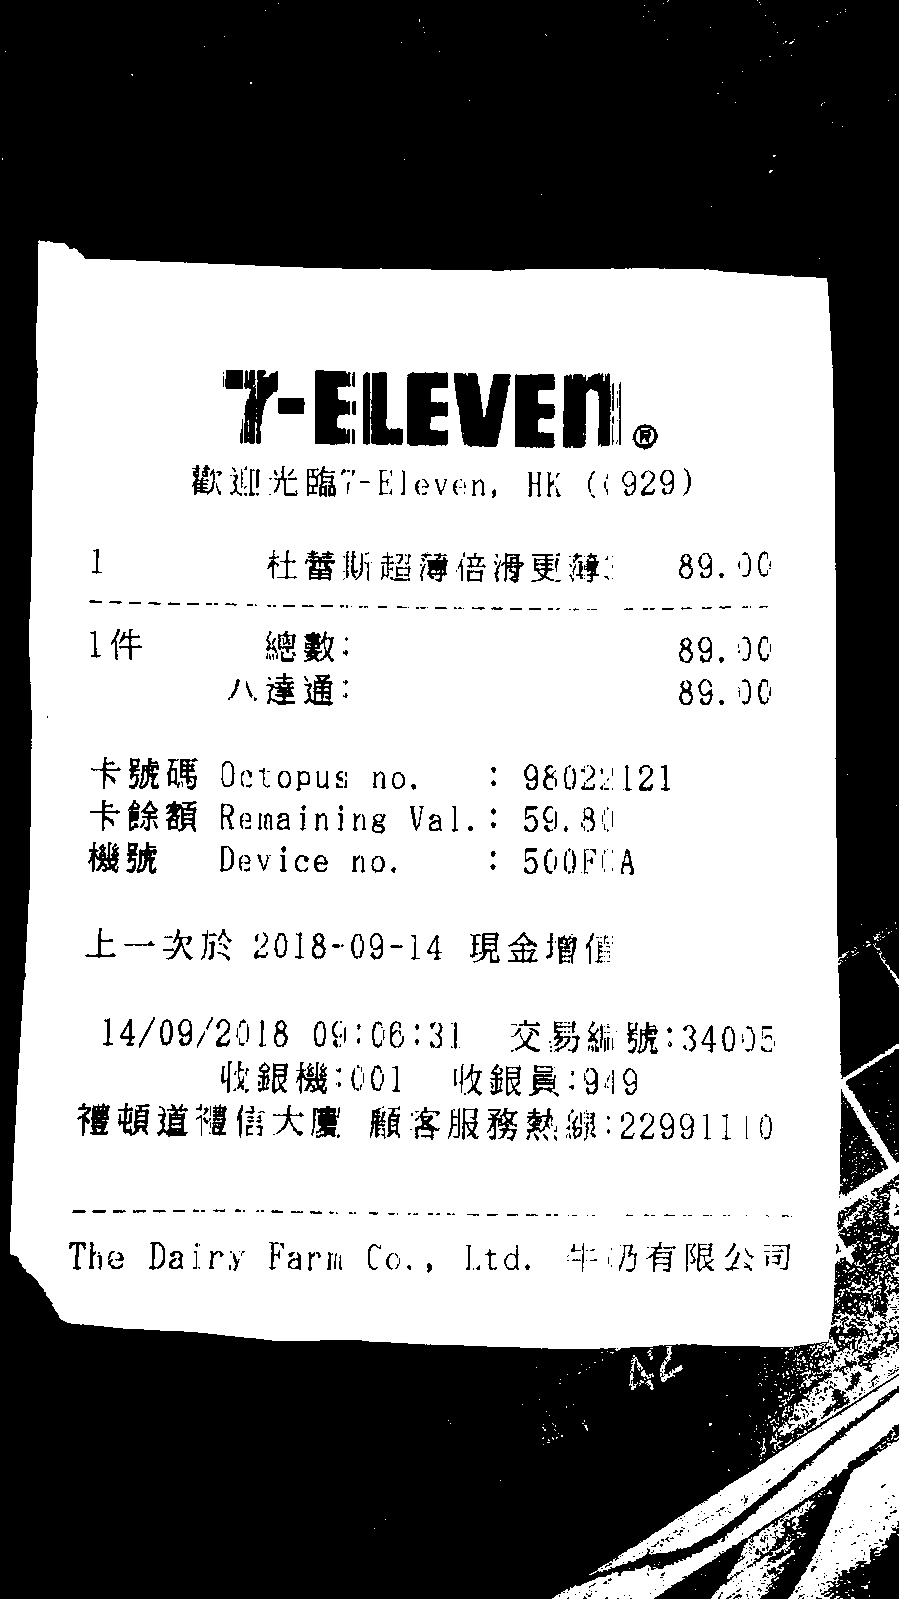
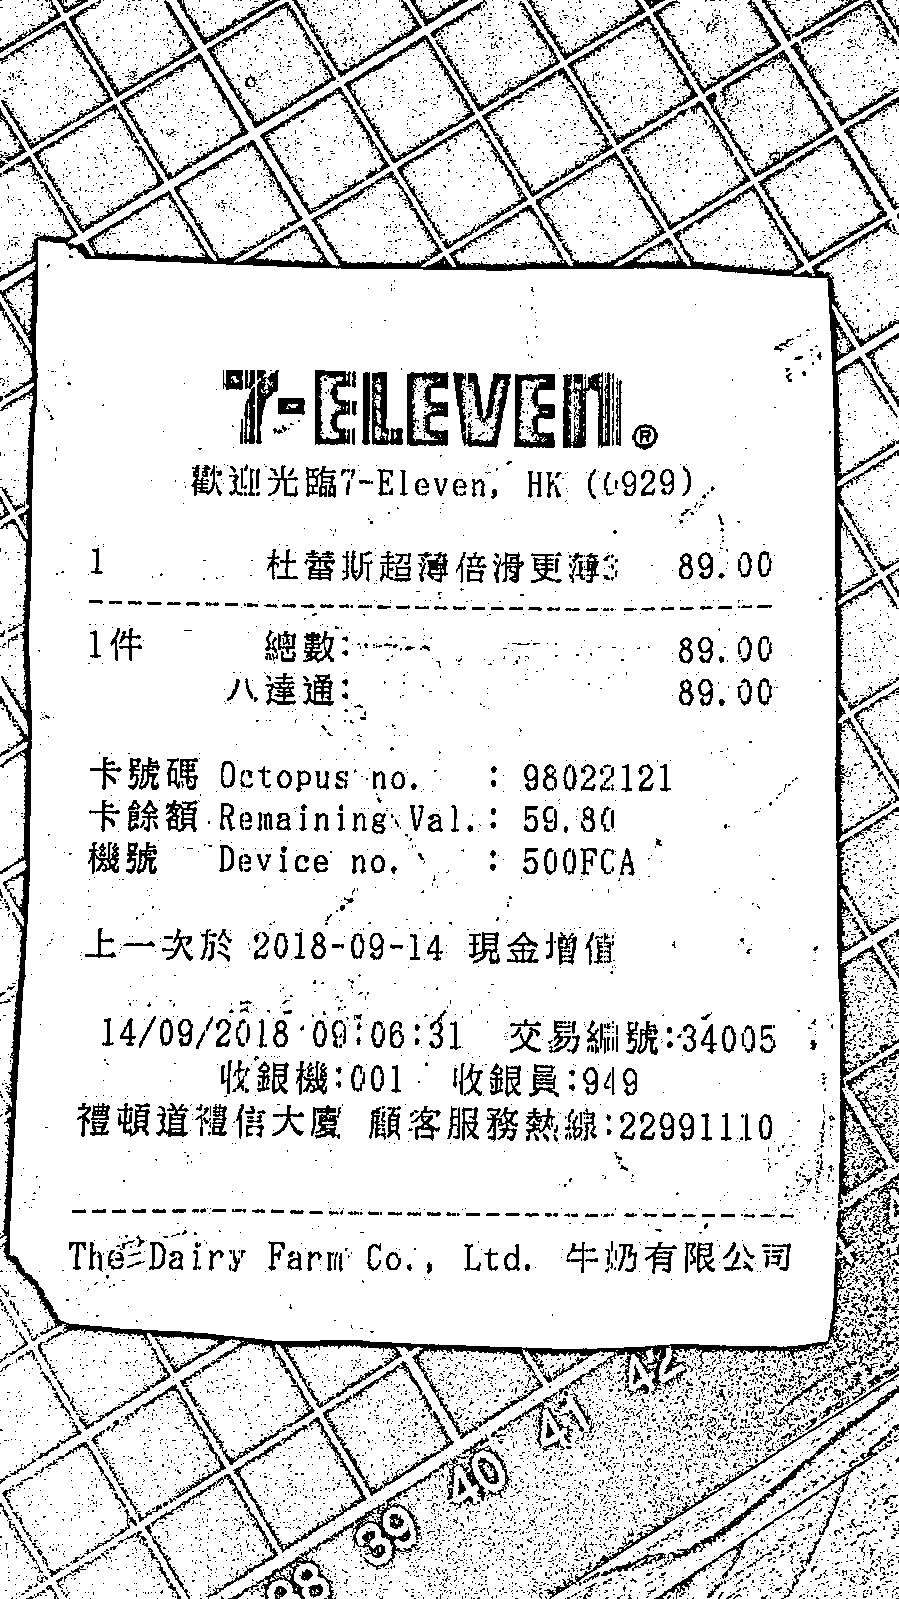
commit-shu-10aug0137

diff --git a/Prepro/grey+rotat.py b/Prepro/grey+rotat.py
@@ -1,40 +1,20 @@
-# pip install --upgrade pip
-# pip install matplotlib
-# pip install numpy
-#pip install pillow
-# pip install opencv-python
-#pip install imutils
-# pip install imutils
-#3.8.5 
-from skimage.filters import threshold_local
 import math
-from scipy import ndimage
-
 import imutils
 import cv2
+import numpy as np
+from scipy import ndimage
+from skimage.filters import threshold_local
 from matplotlib import pyplot as plt
 from PIL import Image
-import numpy as np
 
-#input
-originalImage = cv2.imread('Prepro\Data\img1.jpg')
-grayImage = cv2.cvtColor(originalImage, cv2.COLOR_BGR2GRAY)
-  
-(thresh, blackAndWhiteImage) = cv2.threshold(grayImage, 127, 255, cv2.THRESH_BINARY)
-cv2.imwrite("Prepro\SemiData\gray.jpg", grayImage)
+# Importing img
+originalImage = cv2.imread('Prepro\prototype_0.5\img01.jpg')
 
-#cv2.imshow('Black white image', blackAndWhiteImage)
-#cv2.imshow('Original image',originalImage)
-#cv2.imshow('Gray image', grayImage)
-#inverted_bw = cv2.bitwise_not(blackAndWhiteImage)
-
-cv2.imwrite("Prepro\SemiData\BW.jpg", blackAndWhiteImage)
-
-###############################################
-def orientation_correction(img, save_image = False):
+#########
+#########
+def orientation_correction(img, save_image = False): 
     # GrayScale Conversion for the Canny Algorithm  
     img_gray = cv2.cvtColor(img, cv2.COLOR_BGR2GRAY) 
-    # Canny Algorithm for edge detection was developed by John F. Canny not Kennedy!! :)
     img_edges = cv2.Canny(img_gray, 100, 100, apertureSize=3)
     # Using Houghlines to detect lines
     lines = cv2.HoughLinesP(img_edges, 1, math.pi / 180.0, 100, minLineLength=100, maxLineGap=5)
@@ -51,43 +31,92 @@ def orientation_correction(img, save_image = False):
     # Rotating the image with this median angle
     img_rotated = ndimage.rotate(img, median_angle)
     
-    #if save_image:
-    #    cv2.imwrite('Prepro\SemiData\img09.jpg', img_rotated)
     return img_rotated
-###############################################
+########
+########
 
 
-IMAGE_FILE_LOCATION = "Prepro\SemiData\gray.jpg" # Photo by Amanda Jones on Unsplash
-input_img = cv2.imread(IMAGE_FILE_LOCATION) # image read
-img_rotated = orientation_correction(input_img)
+# Rotate
+rotatImgage = orientation_correction(originalImage)
+# Export
+cv2.imwrite("Prepro/prototype_0.5/rotatImg.jpg",rotatImgage)
 
-cv2.imwrite("Prepro\SemiData\Rotated.jpg",img_rotated)
+# tranf rotated img to gray, bw, inv bw
+grayImage = cv2.cvtColor(rotatImgage, cv2.COLOR_BGR2GRAY)
+(thresh, blackAndWhiteImage) = cv2.threshold(grayImage, 127, 255, cv2.THRESH_BINARY)
+inverted_bw = cv2.bitwise_not(blackAndWhiteImage)
 
+#######
+#######
+def bw_scanner(image):
+    gray = cv2.cvtColor(image, cv2.COLOR_BGR2GRAY)
+    T = threshold_local(gray, 21, offset = 5, method = "gaussian")
+    return (gray > T).astype("uint8") * 255
+#######
+#######
 
+grayImage = cv2.cvtColor(grayImage, cv2.COLOR_GRAY2RGB)
+blackAndWhiteImage = cv2.cvtColor(blackAndWhiteImage, cv2.COLOR_GRAY2RGB)
 
-#################bw_scanner
+bwGray = bw_scanner(grayImage)
+bwBw = bw_scanner(blackAndWhiteImage)
 
+# Exporting image
+cv2.imwrite("Prepro\prototype_0.5\gray.jpg", grayImage)
+cv2.imwrite("Prepro/prototype_0.5/bw.jpg", blackAndWhiteImage)
+cv2.imwrite("Prepro\prototype_0.5\invBw.jpg", inverted_bw)
+cv2.imwrite("Prepro/prototype_0.5/bwGray.jpg", bwGray)
+cv2.imwrite("Prepro/prototype_0.5/bwBw.jpg", bwBw)
 
+##
+##
+def noise_removal(image):
+    import numpy as np
+    kernel = np.ones((1, 1), np.uint8)
+    image = cv2.dilate(image, kernel, iterations=1)
+    kernel = np.ones((1, 1), np.uint8)
+    image = cv2.erode(image, kernel, iterations=1)
+    image = cv2.morphologyEx(image, cv2.MORPH_CLOSE, kernel)
+    image = cv2.medianBlur(image, 3)
+    return (image)
+##
+##
 
+no_noise = noise_removal(bwGray)
+cv2.imwrite("Prepro/prototype_0.5/bwGrayNoise.jpg",no_noise)
 
+##
+##
+def thick_font(image):
+    import numpy as np
+    image = cv2.bitwise_not(image)
+    kernel = np.ones((2,2),np.uint8)
+    image = cv2.dilate(image, kernel, iterations=1)
+    image = cv2.bitwise_not(image)
+    return (image)
+##
+##
 
+dilated_image = thick_font(no_noise)
+cv2.imwrite("Prepro/prototype_0.5/thick.jpg", dilated_image)
 
+#transfering post-processed img to text
 import pytesseract
-from PIL import Image
-import cv2
-
-
-
-#cv2.imshow('abc',img)
-#cv2.waitKey(0)
-#cv2.destroyAllWindows()
-
-
 
 pytesseract.pytesseract.tesseract_cmd = r"C:\Program Files\Tesseract-OCR\tesseract.exe"
+
 #print(pytesseract.get_languages(config=''))
-ocr_result = pytesseract.image_to_string(result, lang='chi_tra')
+#ocr_result = pytesseract.image_to_string(dilated_image, lang='chi_tra')
+#print ("thick")
+#print ("thick")
+#print (ocr_result)
+
+ocr_result = pytesseract.image_to_string(no_noise, lang='chi_tra')
+print ("no_noise")
+print ("no_noise")
 print (ocr_result)
 
-# #Get bounding box estimates
-#print(pytesseract.image_to_boxes(img))
+ocr_result = pytesseract.image_to_string(bwGray, lang='chi_tra')
+print ("bwGray")
+print ("bwGray")
+print (ocr_result)

diff --git a/Prepro/localize_text_tesseract.py b/Prepro/localize_text_tesseract.py
@@ -1,8 +1,8 @@
 #https://www.pyimagesearch.com/2020/05/25/tesseract-ocr-text-localization-and-detection/
-# 
+
 #import the necessary packages
-from pytesseract import Output
 import pytesseract
+from pytesseract import Output
 import argparse
 import cv2
 pytesseract.pytesseract.tesseract_cmd = r"C:\Program Files\Tesseract-OCR\tesseract.exe"
@@ -19,7 +19,7 @@ args = vars(ap.parse_args())
 # and use Tesseract to localize each area of text in the input image
 image = cv2.imread(args["image"])
 rgb = cv2.cvtColor(image, cv2.COLOR_BGR2RGB)
-results = pytesseract.image_to_data(rgb, output_type=Output.DICT, lang='chi_tra')
+results = pytesseract.image_to_data(rgb, output_type=Output.DICT, lang='eng')
 
 # loop over each of the individual text localizations
 for i in range(0, len(results["text"])):
@@ -33,8 +33,8 @@ for i in range(0, len(results["text"])):
 	# text localization
 	text = results["text"][i]
 	conf = int(float(results["conf"][i]))
- 
- # filter out weak confidence text localizations
+
+# filter out weak confidence text localizations
 	if conf > args["min_conf"]:
 		# display the confidence and text to our terminal
 		print("Confidence: {}".format(conf))

diff --git a/Prepro/chris1.py b/Prepro/chris1.py
@@ -1,0 +1,29 @@
+from PIL import Image
+import pytesseract
+from pytesseract import Output
+import cv2
+import numpy as np
+from matplotlib import pyplot as plt
+import re
+
+
+
+img1 = cv2.imread("Prepro/prototype_0.5/bwGrayNoise.jpg")
+#img1 = cv2.imread('D:/School/School_sem3/IA/IA_project/test_3.jpg')
+new2 = cv2.resize(img1 ,(600,800),interpolation= cv2.INTER_CUBIC)
+d = pytesseract.image_to_data(new2, output_type=Output.DICT, lang="eng")
+#d = pytesseract.image_to_boxes(new2)
+keys = list(d.keys())
+date_pattern = "[0-9]"
+date_pattern2 = '[a-zA-Z0-9]'
+print(d.keys())
+
+n_boxes = len(d['text'])
+for i in range(n_boxes):
+    if float(d['conf'][i]) > 60:
+        if re.match(date_pattern2, d['text'][i]):
+            (x, y, w, h) = (d['left'][i], d['top'][i], d['width'][i], d['height'][i])
+            cv2.rectangle(new2, (x, y), (x + w, y + h), (0, 255, 0), 2)
+
+cv2.imshow('output', new2)
+cv2.waitKey(0)

diff --git a/Prepro/basic-pyte.py b/Prepro/basic-pyte.py
@@ -6,16 +6,12 @@ from pytesseract import Output
 img_file = "Prepro\SemiData\BW.jpg"
 img = cv2.imread(img_file)
 
-#cv2.imshow('abc',img)
+
+#cv2.imshow('',img)
 #cv2.waitKey(0)
 #cv2.destroyAllWindows()
-
-
 
 pytesseract.pytesseract.tesseract_cmd = r"C:\Program Files\Tesseract-OCR\tesseract.exe"
 #print(pytesseract.get_languages(config=''))
 ocr_result = pytesseract.image_to_string(img, lang="chi_tra")
 print (ocr_result)
-
-# #Get bounding box estimates
-#print(pytesseract.image_to_boxes(img))

diff --git a/Prepro/lib.py b/Prepro/lib.py
@@ -1,0 +1,10 @@
+#pip install --upgrade pip
+#pip install matplotlib
+#pip install numpy
+#pip install pillow
+#pip install opencv-python
+#pip install imutils
+#pip install imutils
+
+#B314 python interpreter  = 3.8.5 
+
